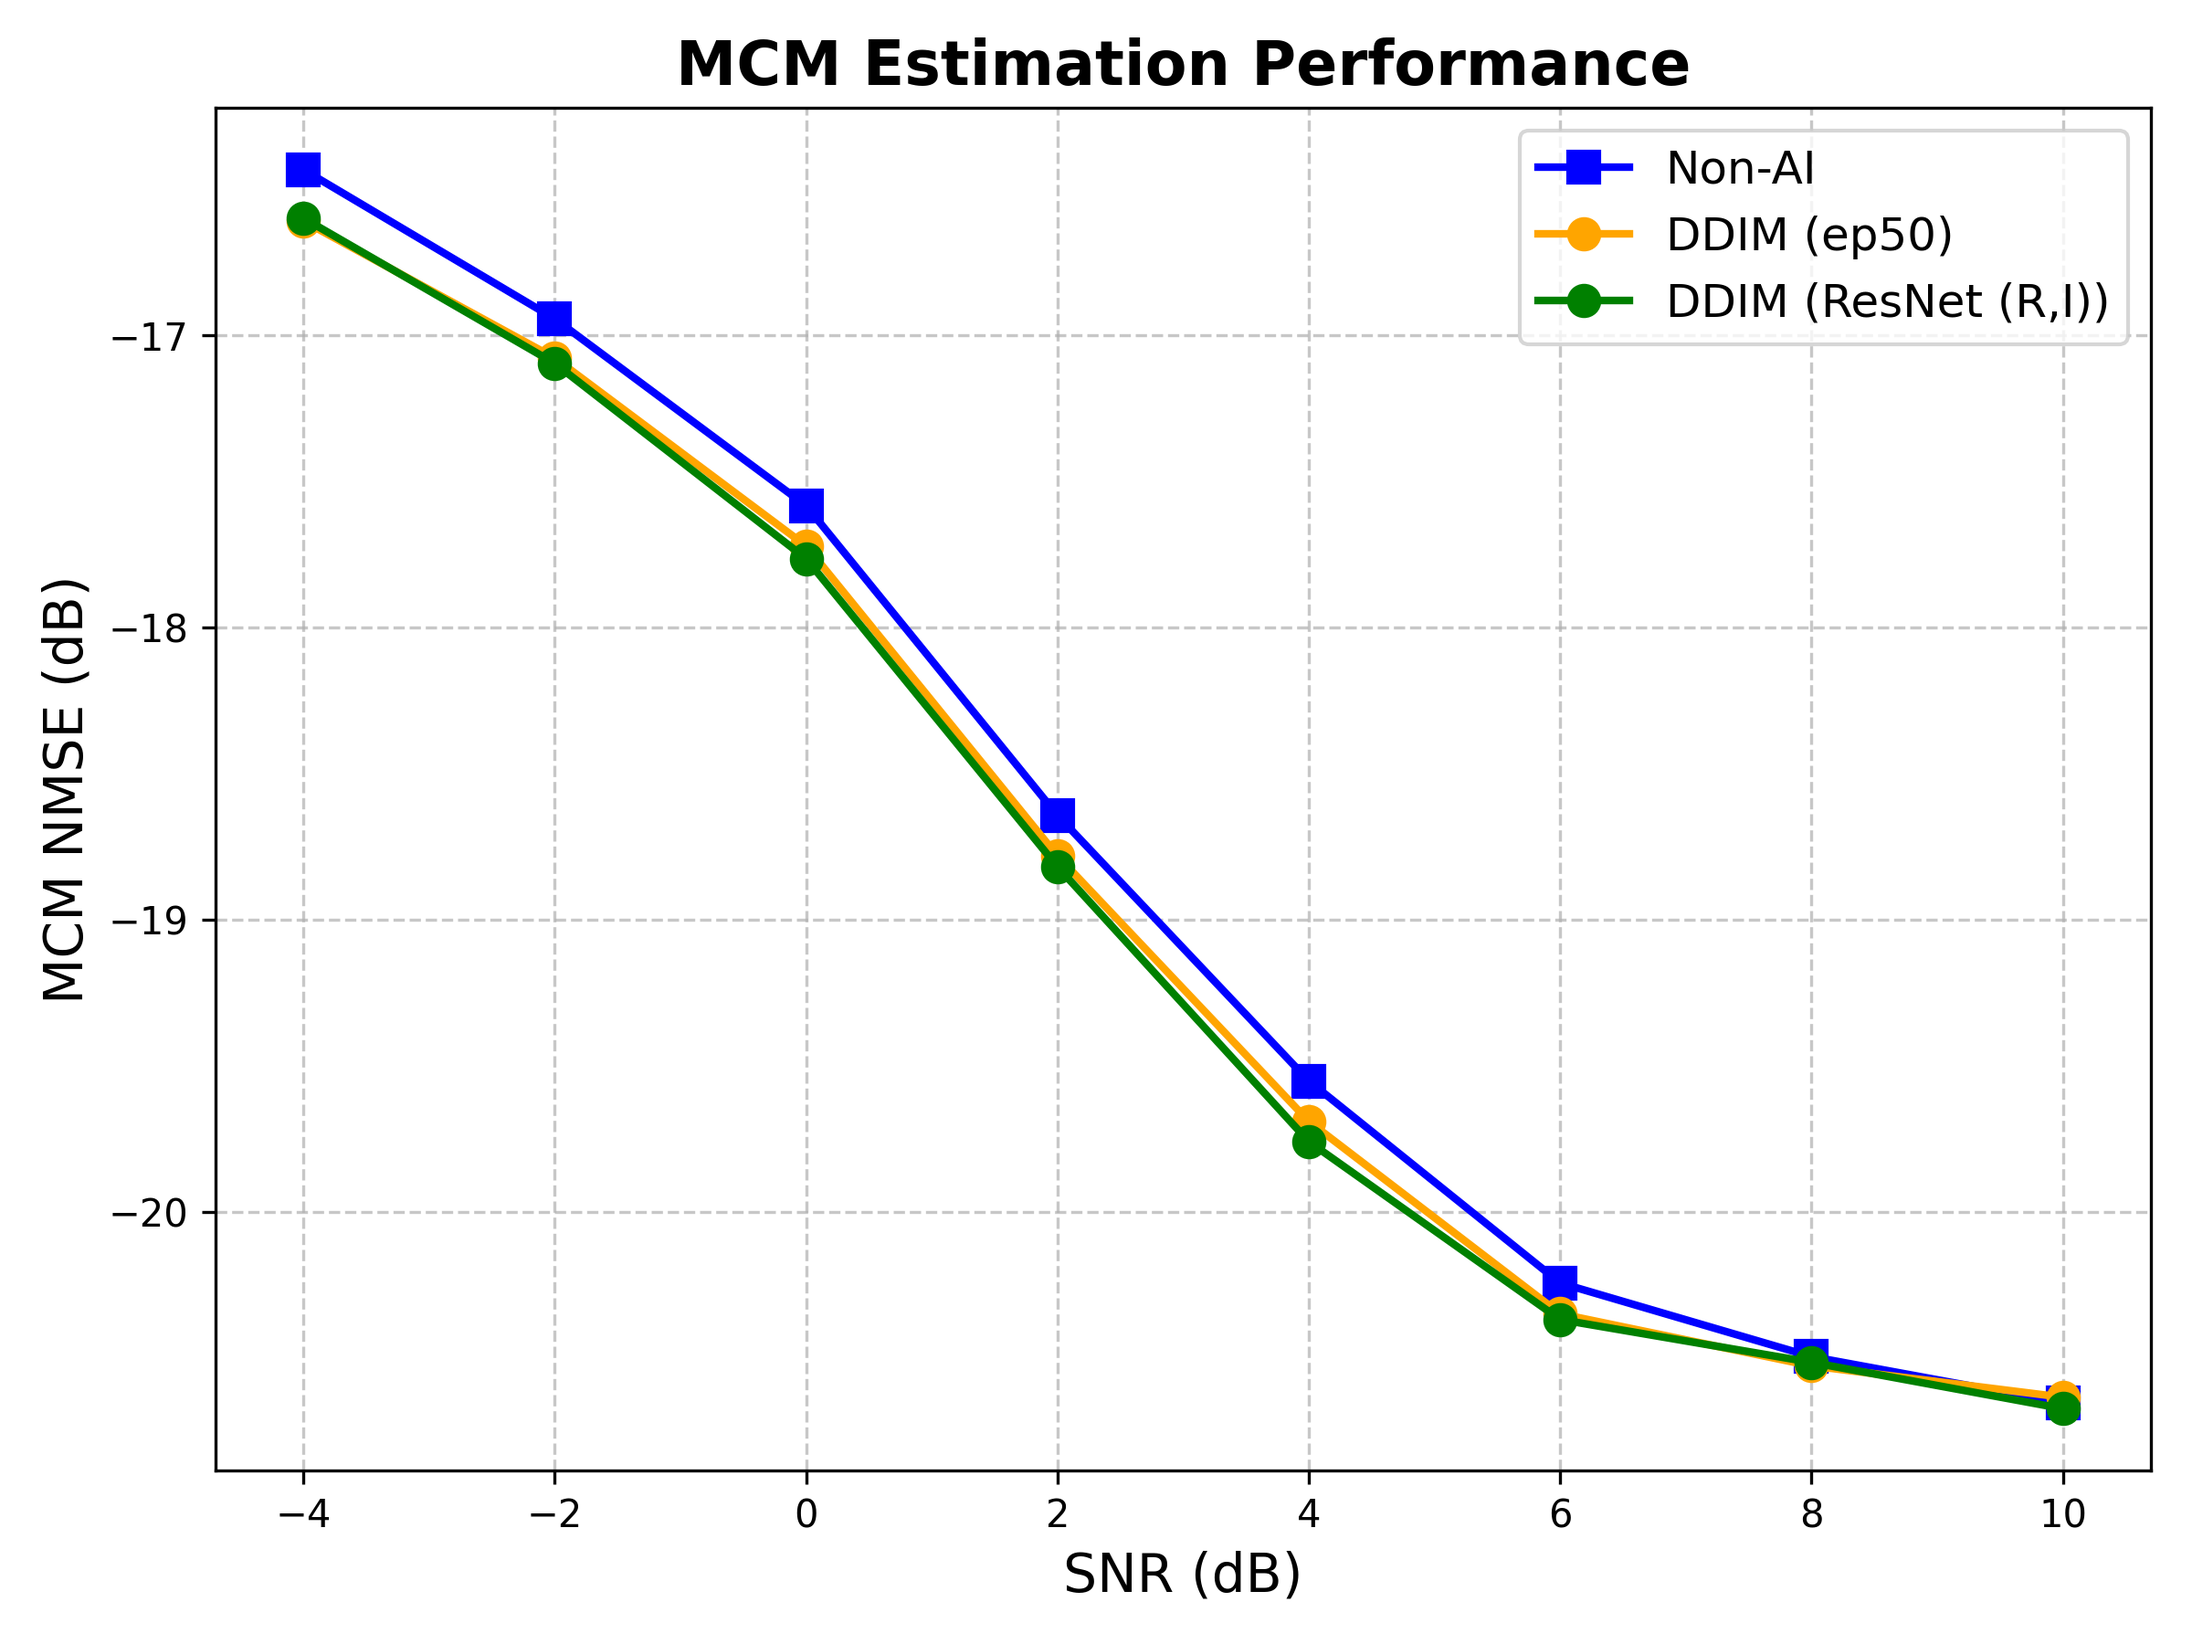
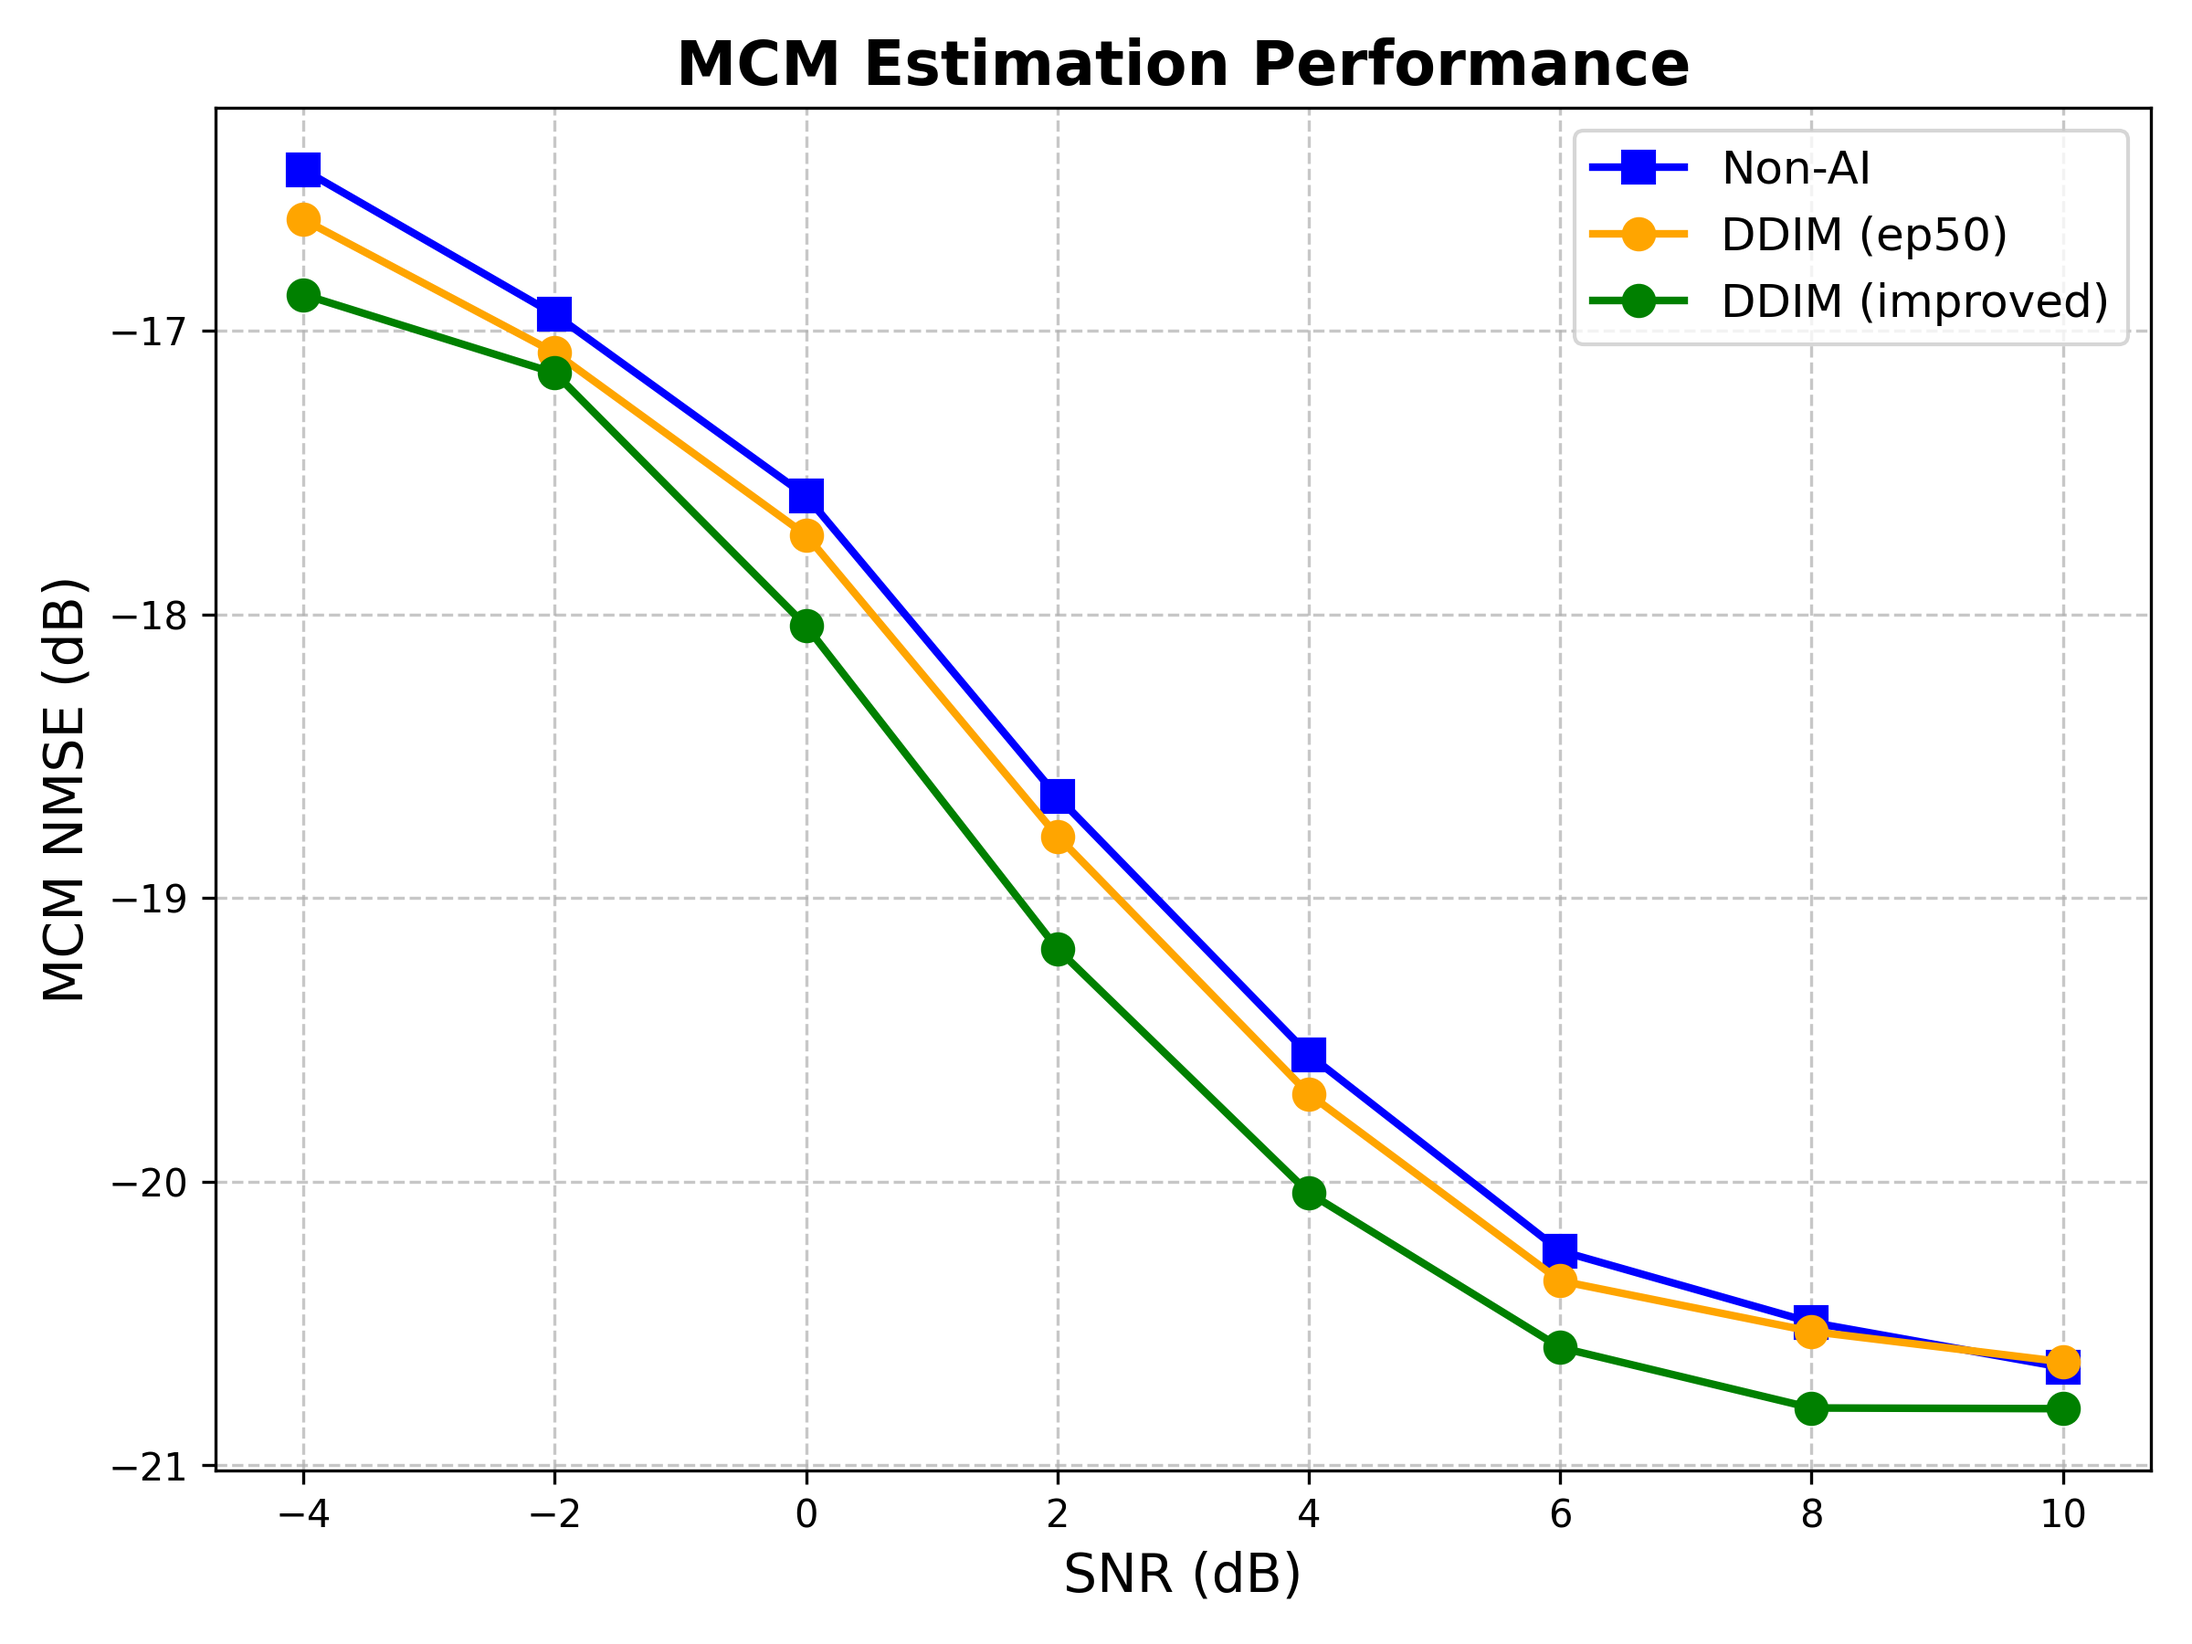
perf(`mlp`): tune hyperparams and dynamic lambda scaling
- Training: Go back to use MLP and reduced batch size to 1024, achieving a new Best Val Loss of 0.1488.
- Dynamic Lambda: Restored and tuned the scaling factor to `1.2` using `sqrt_1m_a_last`.
- Results: Significant gains in MCM and DOA accuracy across all SNR ranges;
- optimized high-SNR `x0` performance to alleviate plateaus at 10dB (tune lambda from 1 to 1.2).

- Conclusion: this setting can really be almost the same as `sim/`, besides changing to log of mean NMSE.

diff --git a/sim2/DDIM/diffusion/ddim_sampler_parallel.py b/sim2/DDIM/diffusion/ddim_sampler_parallel.py
@@ -1,15 +1,23 @@
 import torch
 from diffusion.continuous_beta import alpha_bar_of_t
-from diffusion.physics_guidance import complex_to_real, complex_stack_from_real, project_x0s_physics
+from diffusion.physics_guidance import project_x0s_physics
 
 # Vectorized DDIM deterministic guided sampler operating on all L snapshots in parallel
 
-def ddim_epsnet_guided_sampler_dynamic(y_obs_complex, eps_net, snr,
+def ddim_epsnet_guided_sampler_dynamic(y_obs_complex, eps_net, model_type, snr,
                                      data_mean, data_std,
                                      num_steps=200, T=50.0,
                                      beta_min=1e-4, beta_max=0.02,
                                      guidance_lambda=0.8, device=None,
                                      apply_physics_projection=False):
+    if model_type == 'mlp':
+        from diffusion.physics_guidance import complex_stack_from_real_concat as complex_stack_from_real
+        from diffusion.physics_guidance import complex_to_real_concat as complex_to_real
+    elif model_type == 'unet1d':
+        from diffusion.physics_guidance import complex_stack_from_real_stack as complex_stack_from_real
+        from diffusion.physics_guidance import complex_to_real_stack as complex_to_real
+    else:
+        raise ValueError(f"Unknown model_type: {model_type}")
     device = device or y_obs_complex.device
     eps_net.eval()
     with torch.no_grad():
@@ -18,7 +26,12 @@ def ddim_epsnet_guided_sampler_dynamic(y_obs_complex, eps_net, snr,
         y_real = complex_to_real(y_obs_complex.T)  # (L, 2N)
         B = y_real.shape[0]
         t_seq = torch.linspace(T, 0.0, num_steps, device=device)
-        x_t = torch.randn(B, 2, Nloc, device=device)
+        if model_type == 'mlp':
+            x_t = torch.randn_like(y_real, device=device) # y_real was (B, 2N)
+        elif model_type == 'unet1d':
+            x_t = torch.randn(B, 2, Nloc, device=device)
+        else:
+            raise ValueError(f"Unknown model_type: {model_type}")
         data_mean = data_mean.view(1, -1)
         data_std = data_std.view(1, -1)
         sigma_y2 = (10 ** (-snr / 20.0)) ** 2 / 2.0  # placeholder, user can pass SNR if needed
@@ -47,7 +60,7 @@ def ddim_epsnet_guided_sampler_dynamic(y_obs_complex, eps_net, snr,
             # dx_phys/dx_norm = data_std
             grad_norm = grad_x0 * data_std
             # Apply Guidance in Normalized Space
-            x0_hat_guided_norm = x0_hat_norm + guidance_lambda * grad_norm
+            x0_hat_guided_norm = x0_hat_norm + guidance_lambda *sqrt_1m_a_cur* grad_norm
 
             # compute eps_guided
             eps_guided = (x_t - sqrt_a_cur * x0_hat_guided_norm) / (sqrt_1m_a_cur + 1e-12)
@@ -71,7 +84,7 @@ def ddim_epsnet_guided_sampler_dynamic(y_obs_complex, eps_net, snr,
         # final guidance
         grad_x0 = (y_real - x0_hat_phys) / max(sigma_y2 + 1e-8, 1)
         grad_norm = grad_x0 * data_std
-        x0_hat_final_guided = x0_hat_final + guidance_lambda * grad_norm
+        x0_hat_final_guided = x0_hat_final + guidance_lambda *sqrt_1m_a_last* grad_norm
 
         # 5. Final Output: Convert back to Physical Space
         x0_final_phys = x0_hat_final_guided * data_std + data_mean
@@ -82,12 +95,20 @@ def ddim_epsnet_guided_sampler_dynamic(y_obs_complex, eps_net, snr,
         return x0_est
     
 
-def ddim_epsnet_guided_sampler_batch(y_obs_complex, eps_net, snr,
+def ddim_epsnet_guided_sampler_batch(y_obs_complex, eps_net, model_type, snr,
                                      data_mean, data_std,
                                      num_steps=200, T=50.0,
                                      beta_min=1e-4, beta_max=0.02,
                                      guidance_lambda=0.8, device=None,
                                      apply_physics_projection=False):
+    if model_type == 'mlp':
+        from diffusion.physics_guidance import complex_stack_from_real_concat as complex_stack_from_real
+        from diffusion.physics_guidance import complex_to_real_concat as complex_to_real
+    elif model_type == 'unet1d':
+        from diffusion.physics_guidance import complex_stack_from_real_stack as complex_stack_from_real
+        from diffusion.physics_guidance import complex_to_real_stack as complex_to_real
+    else:
+        raise ValueError(f"Unknown model_type: {model_type}")
     device = device or y_obs_complex.device
     eps_net.eval()
     with torch.no_grad():

diff --git a/sim2/DDIM/train.py b/sim2/DDIM/train.py
@@ -2,12 +2,17 @@ import torch
 import os
 import copy
 from diffusion.continuous_beta import alpha_bar_of_t
-from diffusion.physics_guidance import complex_to_real
 
 def train_epsilon_net(Xs, model_type='unet1d', num_epochs=5, batch_size=64, lr=1e-3,
                       beta_min=1e-4, beta_max=0.02, T=50,
                       val_split=0.1, patience=15, # Early stopping params
-                      device=None, script_dir=None):
+                      device=None, script_dir=None, model_file_name=None):
+    if model_type == 'mlp':
+        from diffusion.physics_guidance import complex_to_real_concat as complex_to_real
+    elif model_type == 'unet1d':
+        from diffusion.physics_guidance import complex_to_real_stack as complex_to_real
+    else:
+        raise ValueError(f"Unknown model_type: {model_type}")
     
     device = device or torch.device('cpu')
     S, Nloc, Lloc = Xs.shape  # num of samples, num of antenna, num of snapshots L
@@ -81,8 +86,12 @@ def train_epsilon_net(Xs, model_type='unet1d', num_epochs=5, batch_size=64, lr=1
 
             # simple q_sample continuous
             a_bar = alpha_bar_of_t(t_cont, beta_min, beta_max, T)
-            sqrt_a = torch.sqrt(a_bar).view(-1, 1, 1)
-            sqrt_1ma = torch.sqrt(1.0 - a_bar).view(-1, 1, 1)
+            if model_type == 'mlp':
+                sqrt_a = torch.sqrt(a_bar).view(-1, 1)
+                sqrt_1ma = torch.sqrt(1.0 - a_bar).view(-1, 1)
+            elif model_type == 'unet1d':
+                sqrt_a = torch.sqrt(a_bar).view(-1, 1, 1)
+                sqrt_1ma = torch.sqrt(1.0 - a_bar).view(-1, 1, 1)
 
             noise = torch.randn_like(x0_batch)
             x_t = sqrt_a * x0_batch + sqrt_1ma * noise
@@ -107,14 +116,18 @@ def train_epsilon_net(Xs, model_type='unet1d', num_epochs=5, batch_size=64, lr=1
                 
                 t_cont_val = torch.rand(x0_val.shape[0], device=device) * T
                 a_bar_val = alpha_bar_of_t(t_cont_val, beta_min, beta_max, T)
-                x_t_val = torch.sqrt(a_bar_val).view(-1, 1, 1) * x0_val + \
-                          torch.sqrt(1.0 - a_bar_val).view(-1, 1, 1) * torch.randn_like(x0_val)
+                # x_t_val = torch.sqrt(a_bar_val).view(-1, 1, 1) * x0_val + \
+                #           torch.sqrt(1.0 - a_bar_val).view(-1, 1, 1) * torch.randn_like(x0_val)
                 
                 # Note: We calculate loss against the ADDED noise, but since we generated it
                 # implicitly above, let's regenerate explicitly for loss calculation
                 noise_val = torch.randn_like(x0_val)
-                x_t_val = torch.sqrt(a_bar_val).view(-1, 1, 1) * x0_val + \
-                          torch.sqrt(1.0 - a_bar_val).view(-1, 1, 1) * noise_val
+                if model_type == 'mlp':
+                    x_t_val = torch.sqrt(a_bar_val).view(-1, 1) * x0_val + \
+                              torch.sqrt(1.0 - a_bar_val).view(-1, 1) * noise_val
+                elif model_type == 'unet1d':
+                    x_t_val = torch.sqrt(a_bar_val).view(-1, 1, 1) * x0_val + \
+                            torch.sqrt(1.0 - a_bar_val).view(-1, 1, 1) * noise_val
                 
                 pred_val = net(x_t_val, t_cont_val)
                 val_loss = torch.mean((pred_val - noise_val)**2)
@@ -152,7 +165,7 @@ def train_epsilon_net(Xs, model_type='unet1d', num_epochs=5, batch_size=64, lr=1
             dataset_dir = os.path.join(script_dir, "weights")
             if not os.path.exists(dataset_dir): os.makedirs(dataset_dir)
             
-            file_name = f"DDIM_{model_type}_lr{lr:.0e}_t{int(T)}.pth"
+            file_name = model_file_name
             save_path = os.path.join(dataset_dir, file_name)
             
             checkpoint = {

diff --git a/sim2/DDIM/diffusion/physics_guidance.py b/sim2/DDIM/diffusion/physics_guidance.py
@@ -27,7 +27,15 @@ def enforce_M11_real_one(M):
 # Project *batch* of real-domain x0_real (B, 2N) back to complex snapshots, compute covariance and project
 # We implement a gentle projection: normalize snapshot energy and optionally apply covariance Toeplitz projection
 
-def complex_stack_from_real(x_real):
+def complex_stack_from_real_concat(x_real):
+    N2 = x_real.shape[-1]
+    N = N2 // 2
+    return x_real[..., :N] + 1j * x_real[..., N:]
+
+def complex_to_real_concat(x):
+    return torch.cat([x.real, x.imag], dim=-1)
+
+def complex_stack_from_real_stack(x_real):
     """
     Input:  (..., 2, N) real
     Output: (..., N) complex
@@ -35,7 +43,7 @@ def complex_stack_from_real(x_real):
     # x_real[:, 0, :] is Real, x_real[:, 1, :] is Imag
     return x_real[..., 0, :] + 1j * x_real[..., 1, :]
 
-def complex_to_real(x):
+def complex_to_real_stack(x):
     """
     Input:  (..., N) complex
     Output: (..., 2, N) real (2 channels)
@@ -46,14 +54,14 @@ def complex_to_real(x):
 
 def project_x0s_physics(x0s_real, enforce_norm=True, energy_target=None):
     # x0s_real: (B, 2N) stacked real
-    x0s_c = complex_stack_from_real(x0s_real)
+    x0s_c = complex_stack_from_real_concat(x0s_real)
     if enforce_norm:
         # normalize each snapshot column to match energy_target (or keep relative)
         mags = torch.sqrt(torch.sum(torch.abs(x0s_c)**2, dim=1, keepdim=True))  # (B,1)
         if energy_target is None:
             energy_target = torch.median(mags)
         x0s_c = x0s_c * (energy_target / (mags + 1e-12))
-    return complex_to_real(x0s_c)
+    return complex_to_real_concat(x0s_c)
 
 # project sample covariance to Hermitian Toeplitz (first K lags)
 def project_cov_to_toeplitz(R, K=None):

diff --git a/sim2/DDIM/main_dynamic_lambda.py b/sim2/DDIM/main_dynamic_lambda.py
@@ -14,9 +14,9 @@ CUDA = 0
 
 # Training settings
 NUM_EPOCHS = 1000
-TRAIN_BATCH_SIZE = 4096
+TRAIN_BATCH_SIZE = 1024
 LR = 1e-3
-MODEL_TYPE = 'unet1d'  # 'unet1d' or 'mlp'
+MODEL_TYPE = 'mlp'  # 'unet1d' or 'mlp'
 NUM_TRAIN_SAMPLES = int(5000)  # try 1e5
 NUM_TEST_SAMPLES = int(3000)    
 VAL_SPLIT = 0.1
@@ -27,10 +27,10 @@ BETA_MIN=1e-4
 BETA_MAX=0.02
 T_DIFFUSION=1000.0
 NUM_SAMPLING_STEPS=50
-GUIDANCE_LAMBDA=0.4
+GUIDANCE_LAMBDA=1.2
 
 # testing settings
-TEST_BATCH_SIZE = 750
+TEST_BATCH_SIZE = 3000
 MODEL_WEIGHT_FILE_NAME = f"DDIM_{MODEL_TYPE}_lr{LR:.0e}_t{int(T_DIFFUSION)}.pth"
 NMSE_RESULT_FILE_NAME = f"NMSE_dy_{MODEL_WEIGHT_FILE_NAME.split('.')[0]}.mat"
 
@@ -59,7 +59,7 @@ if MODE == 'train':
     eps_net = train_epsilon_net(Xs_train, MODEL_TYPE, NUM_EPOCHS, TRAIN_BATCH_SIZE, LR,
                                 BETA_MIN, BETA_MAX, T_DIFFUSION, 
                                 VAL_SPLIT, PATIENCE,
-                                device, script_dir)
+                                device, script_dir, MODEL_WEIGHT_FILE_NAME)
 
 # -----------------------------
 # Testing part
@@ -107,7 +107,7 @@ elif MODE == 'test':
             # --- 1. denoising using DDIM guided sampler (N, B * L) -> (N, B * L) ---
             with torch.no_grad():
                 x0_flat = ddim_epsnet_guided_sampler_dynamic(
-                    Ys_flat, eps_net, snr,
+                    Ys_flat, eps_net, MODEL_TYPE, snr,
                     data_mean, data_std,
                     NUM_SAMPLING_STEPS, T_DIFFUSION, BETA_MIN, BETA_MAX, GUIDANCE_LAMBDA,
                     device=device, apply_physics_projection=True

diff --git a/sim2/DDIM/test_results/NMSE_plot.py b/sim2/DDIM/test_results/NMSE_plot.py
@@ -11,7 +11,7 @@ import numpy as np
 FILES = {
     "Non-AI": "NMSE_Baseline_non_AI.mat",
     "DDIM (ep50)" :  "NMSE_dy_DDIM_ep50_lr1e-04_t1000_bmax2e-02.mat",
-    "DDIM (ResNet (R,I))":  "NMSE_dy_DDIM_unet1d_lr1e-03_t1000.mat",
+    "DDIM (improved)":  "NMSE_dy_DDIM_mlp_lr1e-03_t1000.mat",
 }
 
 # 'g-o'  -> color: green, linestyle: -,  marker: o
@@ -31,7 +31,7 @@ STYLES = {
         'linewidth': 2, 
         'markersize': 8
     },
-    "DDIM (ResNet (R,I))": {
+    "DDIM (improved)": {
         'color': 'green', 
         'marker': 'o', 
         'linestyle': '-',  
